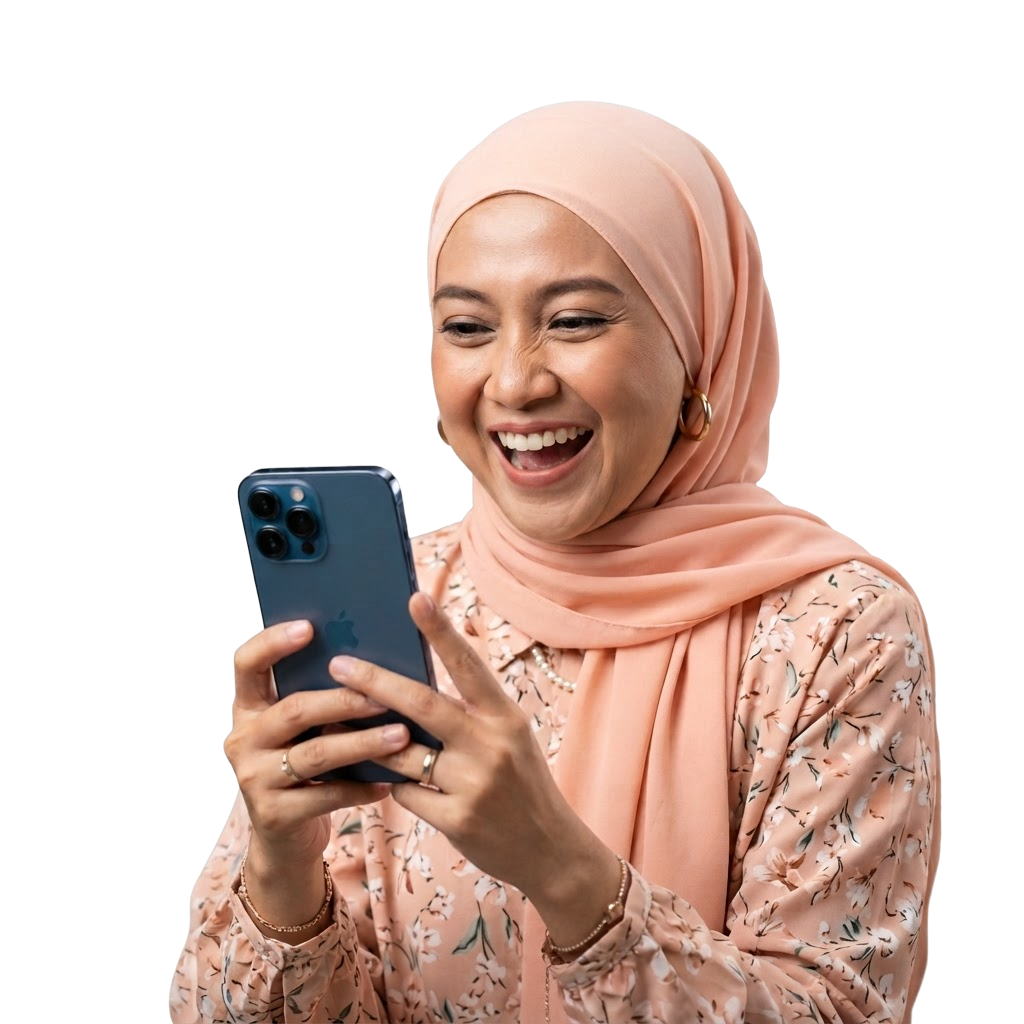
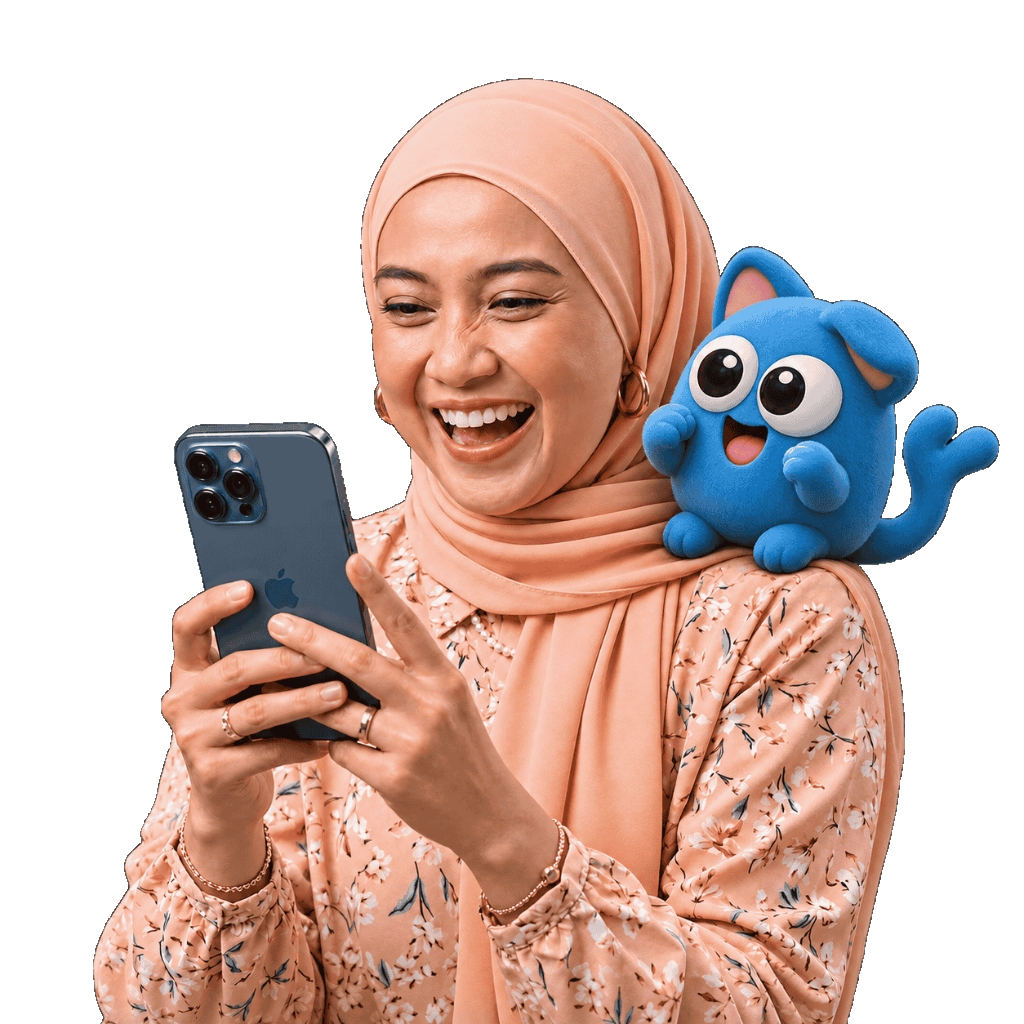
feat(onboarding): perbarui gambar ilustrasi hero-07 onboarding sesuai ukuran asli

diff --git a/resources/views/onboarding/wizard.blade.php b/resources/views/onboarding/wizard.blade.php
@@ -91,7 +91,7 @@
                     <!-- Bottom Illustration & Button -->
                     <div class="relative flex-1 w-full mt-4 flex justify-center min-h-0">
                         <!-- Illustration filling the bottom -->
-                        <img src="{{ asset('assets/figma/hero-07.png') }}" alt="Welcome to KameraKita AI" class="w-full max-w-md h-full object-contain object-bottom drop-shadow-md">
+                        <img src="{{ asset('assets/figma/hero-07.png') }}?v={{ @filemtime(public_path('assets/figma/hero-07.png')) ?: 2 }}" alt="Welcome to KameraKita AI" class="w-full max-w-md h-full object-contain object-bottom drop-shadow-md">
                         
                         <!-- White Gradient Overlay -->
                         <div class="absolute bottom-0 left-0 right-0 h-40 bg-gradient-to-t from-white via-white/90 to-transparent z-10"></div>
